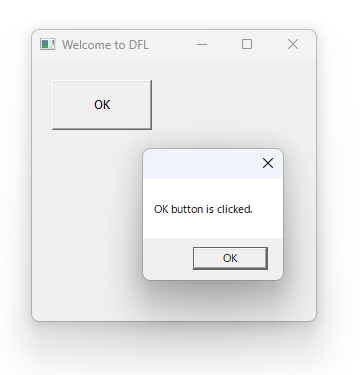
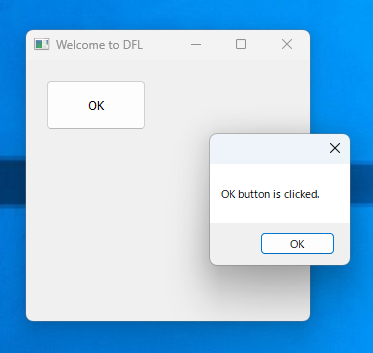
Update example code in README.md.

diff --git a/README.md b/README.md
@@ -8,6 +8,8 @@ import dfl;
 
 void main()
 {
+	Application.enableVisualStyles();
+	
 	Form form = new Form;
 	form.text = "Welcome to DFL";
 	form.size = Size(300, 300);
@@ -58,10 +60,12 @@ void main()
 ![screen shot](./examples/buttons/image/screenshot.png "screen shot")
 ![screen shot](./examples/tabcontrol/image/screenshot.png "screen shot")
 ![screen shot](./examples/listview/image/screenshot.png "screen shot")
+![screen shot](./examples/imagelist/image/screenshot.png "screen shot")
 ![screen shot](./examples/statusbar/image/screenshot.png "screen shot")
 ![screen shot](./examples/splitter/image/screenshot.png "screen shot")
 ![screen shot](./examples/scrollbar/image/screenshot.png "screen shot")
-![screen shot](./examples/imagelist/image/screenshot.png "screen shot")
+![screen shot](./examples/contextmenu/image/screenshot.png "screen shot")
+![screen shot](./examples/trackbar/image/screenshot.png "screen shot")
 ![screen shot](./examples/commondialog/image/screenshot.png "screen shot")
 ![screen shot](./examples/commondialog/image/screenshot2.png "screen shot")
 ![screen shot](./examples/tooltip/image/screenshot.png "screen shot")
@@ -69,9 +73,8 @@ void main()
 ![screen shot](./examples/clipboard/image/screenshot.png "screen shot")
 ![screen shot](./examples/clippingform/image/screenshot.png "screen shot")
 ![screen shot](./examples/picturebox/image/screenshot.png "screen shot")
-![screen shot](./examples/notifyicon/image/screenshot.png "screen shot")
 ![screen shot](./examples/timer/image/screenshot.png "screen shot")
-![screen shot](./examples/contextmenu/image/screenshot.png "screen shot")
+![screen shot](./examples/notifyicon/image/screenshot.png "screen shot")
 ![screen shot](./examples/toolbar/image/screenshot4.png "screen shot")
 ![screen shot](./examples/richtextbox/image/screenshot.png "screen shot")
 ![screen shot](./examples/dclock/image/screenshot.png "screen shot")
